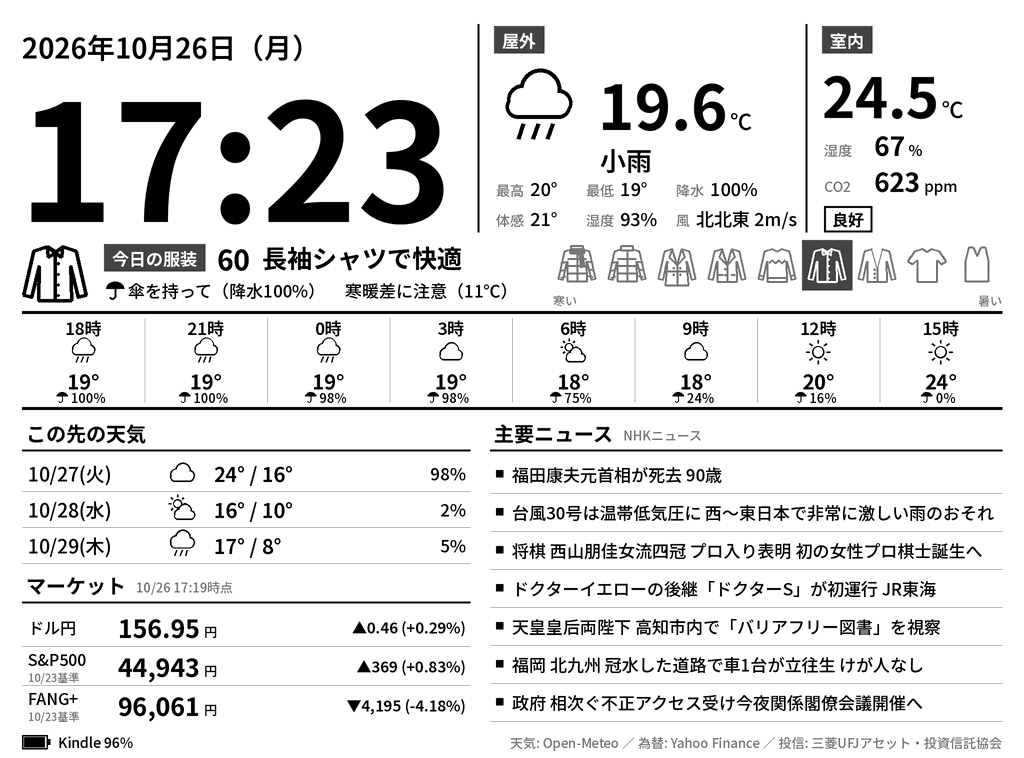
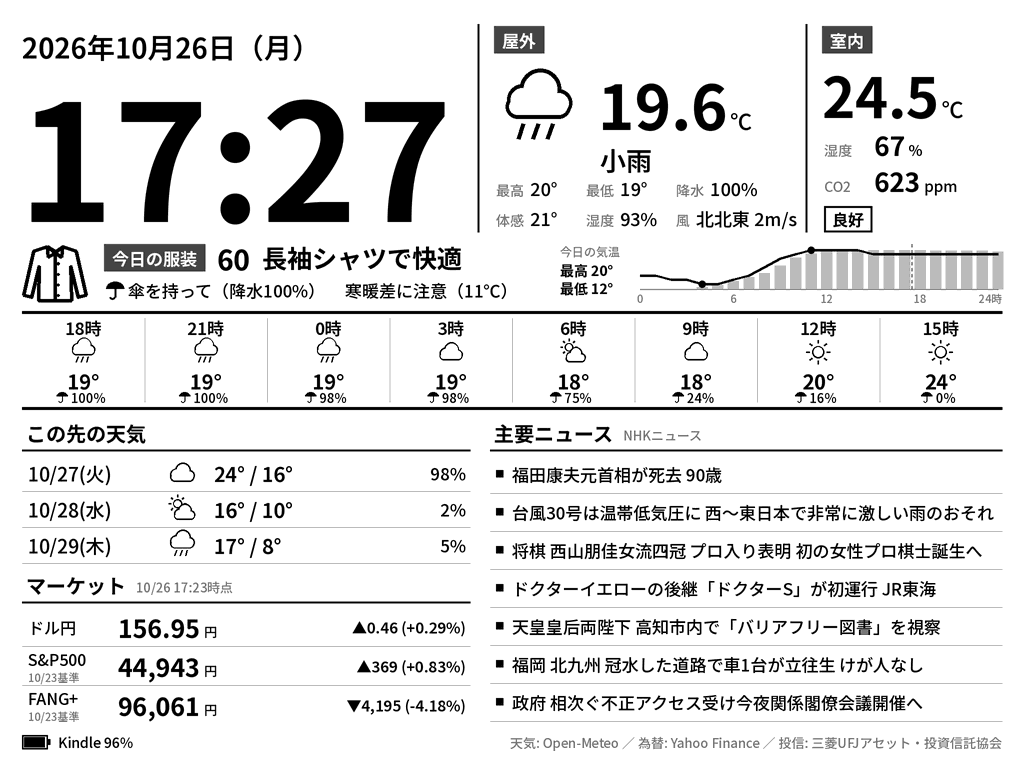
kindle_dashboard: replace clothing scale with daily temperature chart
Claude-Session: https://claude.ai/code/session_01U5J8BxMP2MPkhSzA51AjtL

Changed region(s): [[0.5312, 0.3034, 1.0, 0.4248], [0.3438, 0.1214, 0.4375, 0.3034]]

diff --git a/kindle_dashboard/server/dashboard/render.py b/kindle_dashboard/server/dashboard/render.py
@@ -214,7 +214,7 @@ def draw_clothing(c: Canvas, w: Weather | None):
     cl = w.clothing if w else None
     if cl is None:
         return
-    top, x1 = 238, c.w - M
+    top = 238
     c.garment(cl.index, M, top + 2, 66)
 
     x = M + 82
@@ -223,21 +223,8 @@ def draw_clothing(c: Canvas, w: Weather | None):
     x += c.text(x, y + 1, str(cl.index), 28, "Bold", anchor="lm") + 12
     c.text(x, y, cl.phrase, 25, "Bold", anchor="lm")
 
-    # 右側: 寒い（10）〜暑い（90）の 9 段階を並べ、今日の段階を反転表示する
-    step, size = 50, 40
-    gx0 = x1 - 9 * step + (step - size) / 2
-    for i, index in enumerate(sorted(icons.GARMENTS)):
-        gx = gx0 + i * step
-        if index == cl.index:
-            c.rect(gx - 5, top + 2, gx + size + 5, top + size + 12, fill=DARK)
-            c.garment(index, gx, top + 7, size, fg=WHITE, bg=DARK, shade=GRAY)
-        else:
-            c.garment(index, gx, top + 7, size, fg=GRAY, bg=WHITE, shade=WHITE)
-    c.text(gx0 - 4, top + 62, "寒い", 12, "Medium", fill=GRAY, anchor="lm")
-    c.text(x1, top + 62, "暑い", 12, "Medium", fill=GRAY, anchor="rm")
-
     # 2 行目: ひとこと（傘には傘の絵）。入りきらないものは後ろから省く
-    x1 = gx0 - 16
+    x1 = CHART_X0 - 96
     x, y = M + 84, top + 52
     for tip in cl.tips:
         icon = 18 if tip.startswith("傘") else 0
@@ -248,6 +235,57 @@ def draw_clothing(c: Canvas, w: Weather | None):
             c.umbrella(x + icon / 2, y, icon)
         c.text(x + icon + (4 if icon else 0), y, tip, 17, "Medium", anchor="lm")
         x += width + 24
+
+
+CHART_X0 = 640  # 気温グラフの左端（帯の右側。左に凡例）
+
+
+def draw_temp_chart(c: Canvas, w: Weather | None, now: datetime):
+    """帯の右側: 対象日の 1 時間ごとの気温の折れ線。背景の棒は降水確率。"""
+    hours = w.day_hours if w else []
+    if len(hours) < 2:
+        return
+    x0, x1, y0, y1 = CHART_X0, c.w - M - 4, 250, 284  # 折れ線の範囲（y0 が上）
+    base = y1 + 5  # 降水確率の棒の底・目盛りの線
+    temps = [p.temperature for p in hours]
+    lx = x0 - 80  # 左の凡例: 対象日と最高・最低
+    c.text(lx, 251, f"{w.day_label}の気温", 12, "Medium", fill=GRAY, anchor="lm")
+    c.text(lx, 270, f"最高 {round(max(temps))}°", 14, "Bold", anchor="lm")
+    c.text(lx, 288, f"最低 {round(min(temps))}°", 14, "Bold", anchor="lm")
+
+    lo, hi = min(temps), max(temps)
+    pad = max(0.0, 4 - (hi - lo)) / 2  # 変化が小さい日も平らに見えすぎないように
+    lo, hi = lo - pad, hi + pad
+
+    def px(h: float) -> float:
+        return x0 + (x1 - x0) * h / 23
+
+    def py(t: float) -> float:
+        return y1 - (y1 - y0) * (t - lo) / (hi - lo)
+
+    bar = (x1 - x0) / 23 * 0.7
+    for p in hours:
+        if p.precip_prob:
+            h = (base - y0) * p.precip_prob / 100
+            c.rect(px(p.time.hour) - bar / 2, base - h, px(p.time.hour) + bar / 2, base, fill=LIGHT)
+    c.line(x0, base, x1, base, 1, fill=GRAY)
+    for h in (0, 6, 12, 18):
+        c.text(px(h), base + 9, str(h), 11, "Medium", fill=GRAY, anchor="mm")
+    c.text(x1 + 4, base + 9, "24時", 11, "Medium", fill=GRAY, anchor="rm")
+
+    if w.day_label == "今日":  # 現在時刻の縦線
+        nx = px(now.hour + now.minute / 60)
+        for yy in range(int(y0) - 6, int(base), 6):
+            c.line(nx, yy, nx, yy + 3, 1, fill=DARK)
+
+    pts = [(px(p.time.hour), py(p.temperature)) for p in hours]
+    for a, b in zip(pts, pts[1:]):
+        c.line(*a, *b, 2.5)
+
+    # 最高・最低の位置に点（値は左の凡例）
+    for i in (temps.index(max(temps)), temps.index(min(temps))):
+        x, y = pts[i]
+        c.d.ellipse(((x - 3.5) * c.s, (y - 3.5) * c.s, (x + 3.5) * c.s, (y + 3.5) * c.s), fill=BLACK)
 
 
 def draw_hourly(c: Canvas, w: Weather | None):
@@ -356,6 +394,7 @@ def render(data: DashboardData, fonts: Fonts, width: int = 1024, height: int = 7
     c.line(806, 24, 806, 232, 2)
     draw_indoor(c, data.indoor)
     draw_clothing(c, data.weather)
+    draw_temp_chart(c, data.weather, data.now)
     draw_hourly(c, data.weather)
     draw_daily(c, data.weather)
     draw_market(c, data.quotes)

diff --git a/kindle_dashboard/server/dashboard/demo.py b/kindle_dashboard/server/dashboard/demo.py
@@ -4,9 +4,19 @@ from __future__ import annotations
 
 from datetime import datetime, timedelta
 
-from .clothing import Clothing
+from .clothing import Clothing, HourPoint
 from .render import DashboardData
 from .sources import Current, DaySlot, HourSlot, Indoor, Quote, Weather
+
+
+def demo_day_hours(now: datetime) -> list[HourPoint]:
+    midnight = now.replace(hour=0, minute=0, second=0, microsecond=0)
+    temps = [14, 14, 13, 13, 12, 12, 13, 14, 16, 18, 19, 20, 20, 20, 20, 19,
+             19, 19, 19, 19, 19, 19, 19, 19]
+    pops = [0, 0, 0, 0, 5, 10, 20, 30, 40, 60, 80, 90, 100, 100, 100, 100,
+            100, 100, 100, 98, 98, 98, 98, 95]
+    return [HourPoint(midnight + timedelta(hours=h), t, t + 1, p, 2.0)
+            for h, (t, p) in enumerate(zip(temps, pops))]
 
 
 def demo_data(now: datetime) -> DashboardData:
@@ -29,6 +39,7 @@ def demo_data(now: datetime) -> DashboardData:
                         wind_speed=2.1, wind_direction=22, is_day=True),
         today_max=20, today_min=19, precip_prob=100, hourly=hourly, daily=daily,
         clothing=Clothing(60, "長袖シャツで快適", "今日", ["傘を持って（降水100%）", "寒暖差に注意（11℃）"]),
+        day_hours=demo_day_hours(now),
     )
     market_time = now.replace(second=0, microsecond=0) - timedelta(minutes=4)
     fund_date = (now - timedelta(days=3)).date()

diff --git a/kindle_dashboard/server/dashboard/sources.py b/kindle_dashboard/server/dashboard/sources.py
@@ -17,11 +17,11 @@ import urllib.parse
 import urllib.request
 import uuid
 import xml.etree.ElementTree as ET
-from dataclasses import dataclass
+from dataclasses import dataclass, field
 from datetime import date, datetime
 from zoneinfo import ZoneInfo
 
-from .clothing import Clothing, HourPoint, clothing_advice
+from .clothing import Clothing, HourPoint, clothing_advice, target_day
 
 USER_AGENT = "Mozilla/5.0 (X11; Linux x86_64) kindle-dashboard/1.0"
 
@@ -120,6 +120,8 @@ class Weather:
     hourly: list[HourSlot]
     daily: list[DaySlot]
     clothing: Clothing | None = None
+    day_label: str = "今日"
+    day_hours: list[HourPoint] = field(default_factory=list)  # グラフ用: 対象日の 0〜23 時
 
 
 def open_meteo_url(latitude: float, longitude: float, timezone: str) -> str:
@@ -184,6 +186,7 @@ def parse_open_meteo(data: dict, now: datetime, hourly_count: int = 8,
         if days[i] > today
     ][:daily_count]
 
+    day, day_label = target_day(now)
     return Weather(
         current=current,
         today_max=d["temperature_2m_max"][today_idx],
@@ -192,6 +195,8 @@ def parse_open_meteo(data: dict, now: datetime, hourly_count: int = 8,
         hourly=hourly,
         daily=daily,
         clothing=clothing_advice(points, now),
+        day_label=day_label,
+        day_hours=[p for p in points if p.time.date() == day],
     )
 
 

diff --git a/kindle_dashboard/server/dashboard/clothing.py b/kindle_dashboard/server/dashboard/clothing.py
@@ -7,7 +7,7 @@
 from __future__ import annotations
 
 from dataclasses import dataclass, field
-from datetime import datetime, timedelta
+from datetime import date, datetime, timedelta
 
 DAY_START, DAY_END = 6, 21  # 外出する時間帯
 SWITCH_TO_TOMORROW = 18  # この時刻以降は明日の服装を出す
@@ -54,11 +54,16 @@ def level_for(feels_like: float) -> tuple[int, str]:
     return COLDEST
 
 
-def clothing_advice(points: list[HourPoint], now: datetime) -> Clothing | None:
+def target_day(now: datetime) -> tuple[date, str]:
+    """服装と気温グラフの対象日。夕方以降は明日。"""
     if now.hour >= SWITCH_TO_TOMORROW:
-        day, label, start = (now + timedelta(days=1)).date(), "明日", DAY_START
-    else:
-        day, label, start = now.date(), "今日", max(DAY_START, now.hour)
+        return (now + timedelta(days=1)).date(), "明日"
+    return now.date(), "今日"
+
+
+def clothing_advice(points: list[HourPoint], now: datetime) -> Clothing | None:
+    day, label = target_day(now)
+    start = max(DAY_START, now.hour) if label == "今日" else DAY_START
     window = [p for p in points if p.time.date() == day and start <= p.time.hour <= DAY_END]
     if not window:
         return None

diff --git a/kindle_dashboard/server/tests/test_sources.py b/kindle_dashboard/server/tests/test_sources.py
@@ -51,6 +51,17 @@ def test_parse_open_meteo_picks_next_three_hour_slots():
     assert (w.clothing.day_label, w.clothing.index) == ("今日", 60)
 
 
+def test_parse_open_meteo_day_hours_for_chart():
+    w = sources.parse_open_meteo(open_meteo_fixture(), datetime(2026, 10, 26, 9, 0, tzinfo=TZ))
+    assert w.day_label == "今日"
+    assert [p.time.hour for p in w.day_hours] == list(range(24))
+    assert {p.time.day for p in w.day_hours} == {26}
+
+    evening = sources.parse_open_meteo(open_meteo_fixture(), datetime(2026, 10, 26, 19, 0, tzinfo=TZ))
+    assert evening.day_label == "明日"
+    assert {p.time.day for p in evening.day_hours} == {27}
+
+
 def test_parse_open_meteo_skips_current_slot_exactly_on_the_hour():
     now = datetime(2026, 10, 26, 15, 0, tzinfo=TZ)
     w = sources.parse_open_meteo(open_meteo_fixture(), now)

diff --git a/kindle_dashboard/server/tests/test_render_and_server.py b/kindle_dashboard/server/tests/test_render_and_server.py
@@ -134,3 +134,12 @@ def test_render_every_clothing_level(fonts, index):
     data = demo_data(NOW)
     data.weather.clothing = Clothing(index, "テスト", "明日", ["傘を持って（降水80%）", "風が強い（9m/s）"])
     assert render(data, fonts).size == (1024, 758)
+
+
+@pytest.mark.parametrize("hours", [0, 1, 24])
+def test_render_temp_chart_with_few_or_flat_hours(fonts, hours):
+    data = demo_data(NOW)
+    data.weather.day_hours = [p for p in data.weather.day_hours[:hours]]
+    for p in data.weather.day_hours:
+        p.temperature = 15.0  # 平らでもゼロ除算しない
+    assert render(data, fonts).size == (1024, 758)
